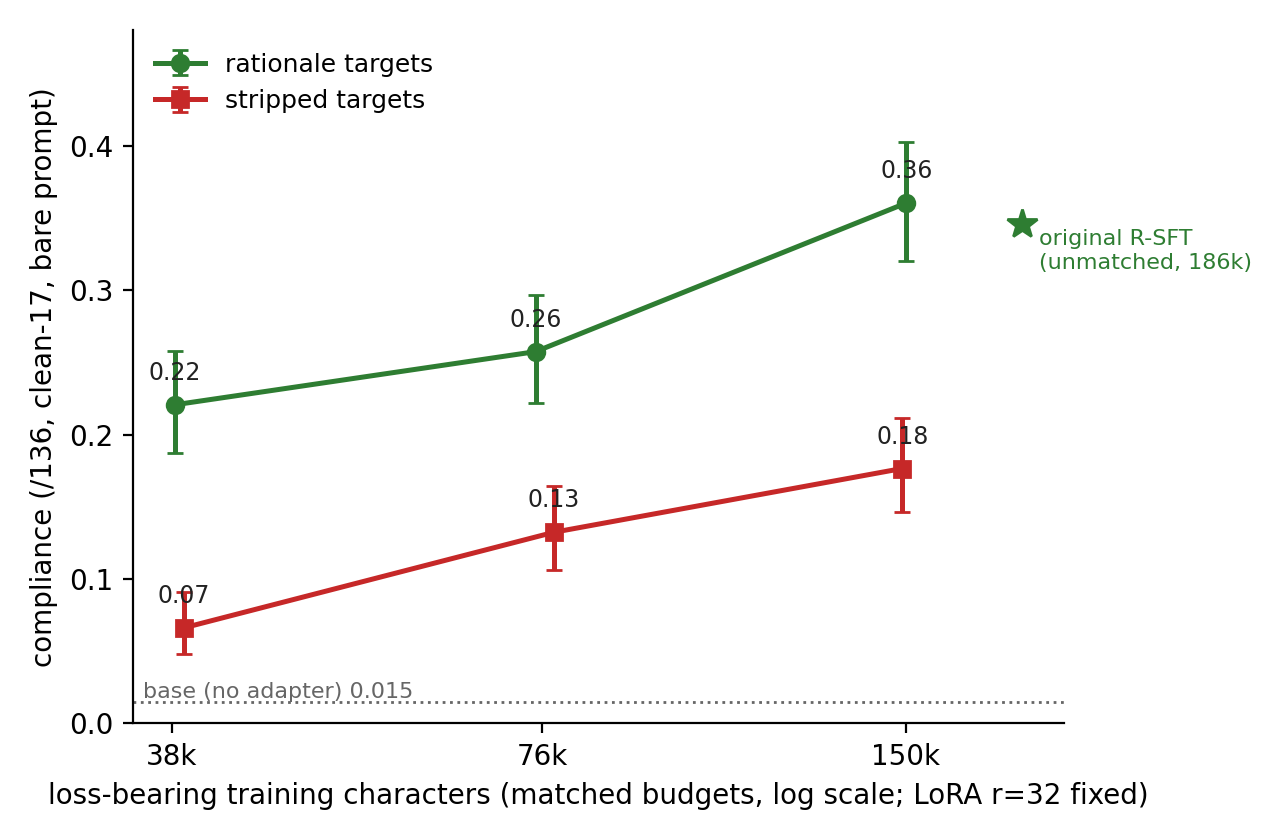
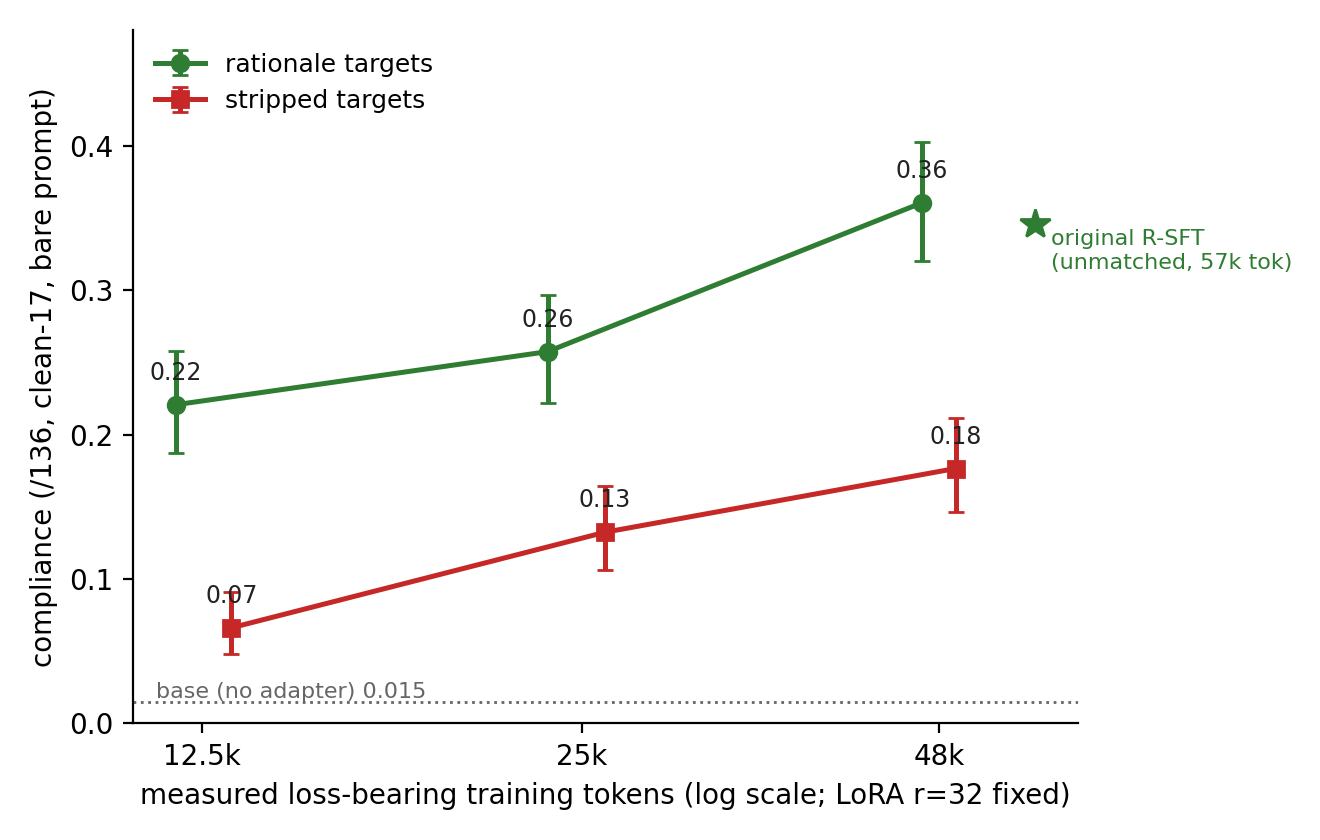
Scaling figure on measured tokens: char-match was conservative
Gemma-tokenizer counts (completion-only, matching _completion_loss):
rationale received 6-10% FEWER tokens than stripped at matched chars
(prose > chars/token), so the +12.5/+12.5/+18.4 gaps survive a fortiori.
X-axis now shows measured token positions (pairs honestly offset);
token_counts.json committed; results doc addendum.

diff --git a/src/plot_sft_scaling.py b/src/plot_sft_scaling.py
@@ -9,8 +9,16 @@ from saved sources. Per-cell counts (compliant/136):
   rationale: b37 30, b75 35, b149 49   (38,209 / 75,017 / 150,178 chars)
   stripped:  b37  9, b75 18, b149 24   (38,853 / 77,664 / 148,996 chars)
 Reference lines: base (no adapter) 2/136 = 0.015; original R-SFT (66 demos,
-186,429 chars, /136 recomputation) 47/136 = 0.346.
+57,099 tokens, /136 recomputation) 47/136 = 0.346.
 Error bars: 68% Wilson intervals on the /136 proportion.
+
+X-axis (2026-08-12 revision): MEASURED loss-bearing tokens per corpus
+(google/gemma-4-31B-it tokenizer.json, encode(completion,
+add_special_tokens=False) — identical counting to _completion_loss;
+data/sft_scaling/token_counts.json). The freeze matched CHARACTERS within
+3%; in tokens the rationale arm has 6-10% FEWER (prose > chars/token), so
+the char-match was conservative against the rationale arm. Points sit at
+their true token counts — pairs are slightly offset by construction.
 
 Rank-sweep companions (results/rank_sweep_2026-08-09.md) are NOT on this
 figure — the r=8/128 cells vary rank, not tokens, and belong on a rank axis.
@@ -27,12 +35,12 @@ ROOT = os.path.dirname(os.path.dirname(os.path.abspath(__file__)))
 os.makedirs(f"{ROOT}/paper/figs", exist_ok=True)
 
 N = 136
-ARMS = {  # (chars, compliant_count) per budget, log order
-    "rationale": [(38_209, 30), (75_017, 35), (150_178, 49)],
-    "stripped":  [(38_853,  9), (77_664, 18), (148_996, 24)],
+ARMS = {  # (measured tokens, compliant_count) per budget, log order
+    "rationale": [(11_907, 30), (23_477, 35), (46_454, 49)],
+    "stripped":  [(13_181,  9), (26_074, 18), (49_430, 24)],
 }
 BASE = 2 / N
-RSFT_ORIG = (186_429, 47 / N)
+RSFT_ORIG = (57_099, 47 / N)
 
 # Same validated pairs as plot_sft_progression_minimal.py (dataviz six-checks):
 PALETTES = {
@@ -53,7 +61,7 @@ def wilson68(k, n):
 def render(theme, out):
     pal = PALETTES[theme]
     plt.style.use("default" if theme == "light" else "dark_background")
-    fig, ax = plt.subplots(figsize=(6.4, 4.2))
+    fig, ax = plt.subplots(figsize=(6.6, 4.2))
     for arm, color, marker in (("rationale", pal["rat"], "o"),
                                ("stripped", pal["strip"], "s")):
         xs = np.array([c for c, _ in ARMS[arm]], dtype=float)
@@ -68,19 +76,19 @@ def render(theme, out):
                         xytext=(0, 9), ha="center", fontsize=8.5,
                         color=("#222222" if theme == "light" else "#dddddd"))
     ax.axhline(BASE, color=pal["ref"], lw=1, ls=":")
-    ax.annotate("base (no adapter) 0.015", (36_000, BASE), fontsize=8,
+    ax.annotate("base (no adapter) 0.015", (11_500, BASE), fontsize=8,
                 color=pal["ref"], va="bottom")
     ax.plot([RSFT_ORIG[0]], [RSFT_ORIG[1]], marker="*", ms=11,
             color=pal["rat"], ls="none")
-    ax.annotate("original R-SFT\n(unmatched, 186k)", RSFT_ORIG,
+    ax.annotate("original R-SFT\n(unmatched, 57k tok)", RSFT_ORIG,
                 textcoords="offset points", xytext=(6, -16), fontsize=8,
                 color=pal["rat"])
     ax.set_xscale("log")
-    ax.set_xticks([38_000, 76_000, 150_000])
-    ax.set_xticklabels(["38k", "76k", "150k"])
+    ax.set_xticks([12_500, 25_000, 48_000])
+    ax.set_xticklabels(["12.5k", "25k", "48k"])
     ax.xaxis.set_minor_locator(matplotlib.ticker.NullLocator())
-    ax.xaxis.set_major_formatter(matplotlib.ticker.FixedFormatter(["38k", "76k", "150k"]))
-    ax.set_xlabel("loss-bearing training characters (matched budgets, log scale; LoRA r=32 fixed)")
+    ax.xaxis.set_major_formatter(matplotlib.ticker.FixedFormatter(["12.5k", "25k", "48k"]))
+    ax.set_xlabel("measured loss-bearing training tokens (log scale; LoRA r=32 fixed)")
     ax.set_ylabel("compliance (/136, clean-17, bare prompt)")
     ax.set_ylim(0, 0.48)
     ax.legend(frameon=False, loc="upper left", fontsize=9)

diff --git a/results/sft_scaling_2026-08-08.md b/results/sft_scaling_2026-08-08.md
@@ -81,6 +81,15 @@ solving the problem*, not just raising a compliance flag.
 no-code mass here looks like a property of the base+small-SFT regime, not
 of the target type.
 
+Token-count addendum (2026-08-12): measured loss-bearing tokens
+(Gemma tokenizer, completion-only, add_special_tokens=False;
+data/sft_scaling/token_counts.json): rationale 11,907/23,477/46,454 vs
+stripped 13,181/26,074/49,430; original R-SFT 57,099. At matched
+characters the rationale arm received 6–10% FEWER tokens (prose packs
+more chars per token) — the char-match was conservative against the
+rationale arm, so the matched-budget gaps hold a fortiori at the token
+level. The figure's x-axis now uses these measured counts.
+
 Ops note: stripped-arm evals ran ~40–70% slower per task (longer
 generations toward the 3072 cap) — a behavioral difference in its own
 right, disclosed here since it shows up as wall-clock, not in any metric.
